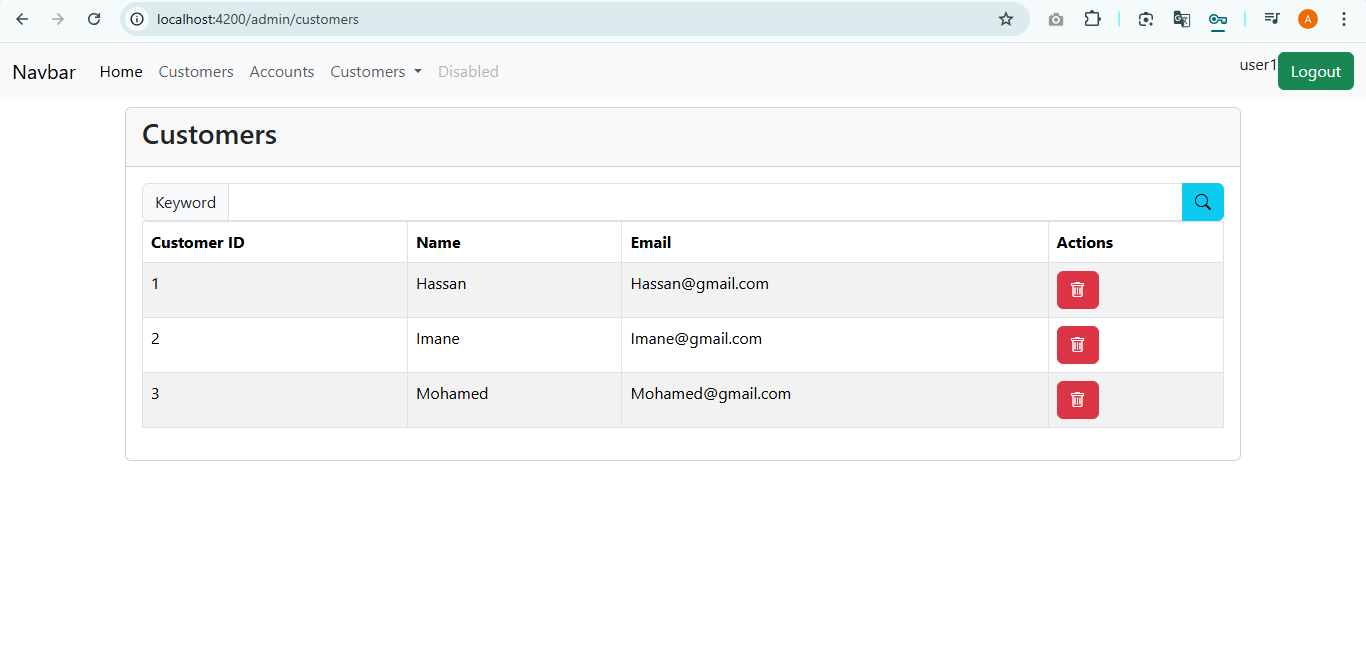
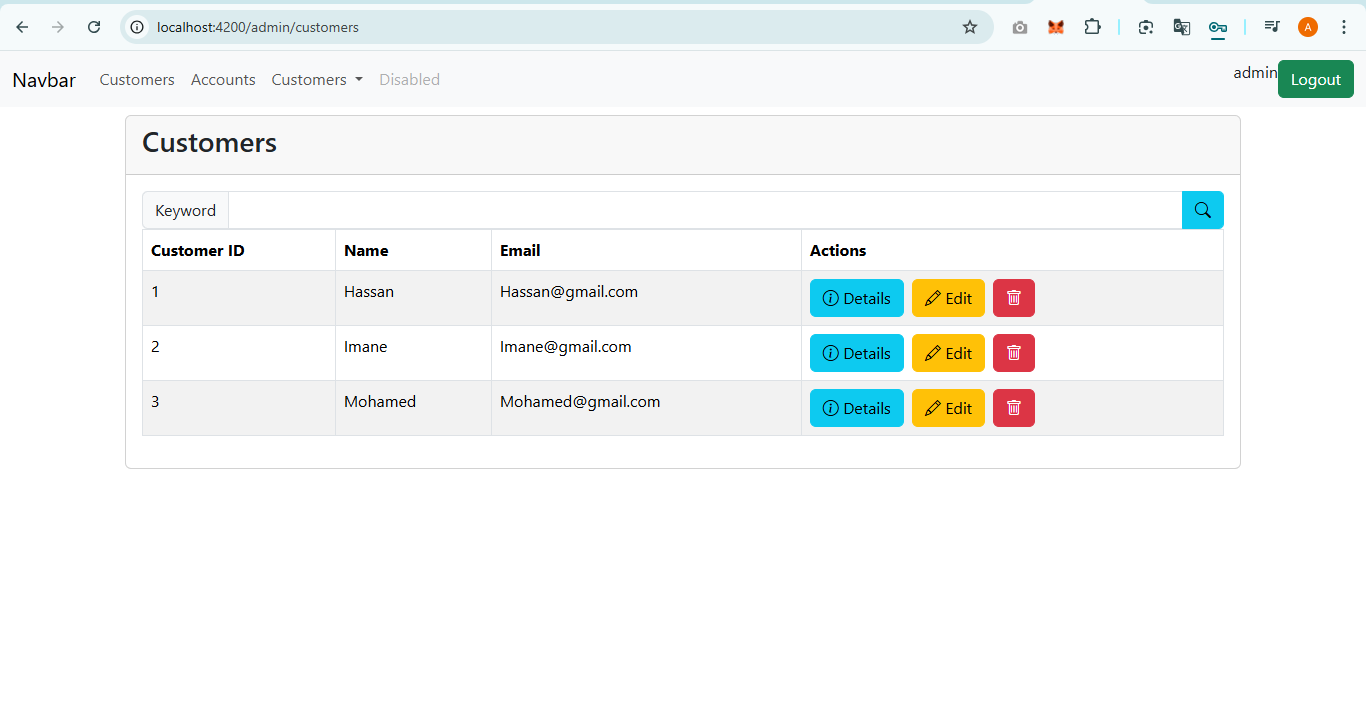
change readme File

diff --git a/src/app/new-customer/new-customer.component.html b/src/app/new-customer/new-customer.component.html
@@ -6,12 +6,12 @@
         <div class="card-body">
             <form [formGroup]="newCustomerFormGroup" (ngSubmit)="handleSaveCustomer()">
                 <div class="mb-3">
-                    <label class="form-label" for="name">Name :</label>
+                    <label class="form-label">Name :</label>
                     <input type="text" class="form-control" formControlName="name">
                     <span class="text-danger" *ngIf="newCustomerFormGroup.controls['name'].errors && newCustomerFormGroup.controls['name'].errors!['required']">Name is required</span>
                 </div>
                 <div class="mb-3">
-                    <label for="email">Email</label>
+                    <label>Email</label>
                     <input type="email" class="form-control" formControlName="email">
                     <span class="text-danger" *ngIf="newCustomerFormGroup.controls['email'].errors && newCustomerFormGroup.controls['email'].errors!['required']">Email is required</span>
                     <span class="text-danger" *ngIf="newCustomerFormGroup.controls['email'].errors && newCustomerFormGroup.controls['email'].errors!['email']">Email is invalid</span>

diff --git a/src/app/customer-accounts/customer-accounts.component.html b/src/app/customer-accounts/customer-accounts.component.html
@@ -17,7 +17,7 @@
             <div class="card shadow-sm h-100">
                 <div class="card-header bg-primary text-white d-flex justify-content-between align-items-center">
                     <h4 class="mb-0"><i class="bi bi-person-circle me-2"></i>Customer Details</h4>
-                    <button class="btn btn-sm btn-light" (click)="editCustomer()">
+                    <button *ngIf="authService.roles.includes('ADMIN')" class="btn btn-sm btn-light" (click)="editCustomer()">
                         <i class="bi bi-pencil-square me-1"></i> Edit
                     </button>
                 </div>
@@ -162,6 +162,11 @@
                             </div>
                         </ng-template>
                     </ng-template>
+                </div>
+                <div class="card-footer bg-light d-flex justify-content-center">
+                    <button *ngIf="authService.roles.includes('ADMIN')" class="btn btn-success" data-bs-toggle="modal" data-bs-target="#newAccountModal">
+                        <i class="bi bi-plus-circle me-1"></i> New Account
+                    </button>
                 </div>
             </div>
         </div>

diff --git a/src/app/customers/customers.component.ts b/src/app/customers/customers.component.ts
@@ -6,6 +6,7 @@ import { catchError, Observable, throwError, map } from 'rxjs';
 import { Customer } from '../model/customer.model';
 import { FormGroup, FormBuilder, ReactiveFormsModule } from '@angular/forms';
 import { Router } from '@angular/router';
+import { AuthService } from '../services/auth.service';
 
 @Component({
   selector: 'app-customers',
@@ -18,7 +19,7 @@ export class CustomersComponent implements OnInit{
   customers! :   Observable<Array<Customer>>;
   errorMessage! : string;
   searchFormGroup! : FormGroup;
-  constructor(private customerService : CustomerService, private fb : FormBuilder, private router: Router) {
+  constructor(private customerService : CustomerService, private fb : FormBuilder, private router: Router, public authService: AuthService) {
   }
   ngOnInit(): void {
     this.searchFormGroup = this.fb.group({

diff --git a/src/app/customer-accounts/customer-accounts.component.ts b/src/app/customer-accounts/customer-accounts.component.ts
@@ -6,6 +6,7 @@ import { AccountsService } from '../services/accounts.service';
 import { CustomerService } from '../services/customer.service';
 import { CommonModule } from '@angular/common';
 import { FormBuilder, FormGroup, ReactiveFormsModule, Validators } from '@angular/forms';
+import { AuthService } from '../services/auth.service';
 
 @Component({
   selector: 'app-customer-accounts',
@@ -27,7 +28,8 @@ export class CustomerAccountsComponent implements OnInit{
     private router : Router,
     private accountsService : AccountsService,
     private customerService: CustomerService,
-    private fb: FormBuilder
+    private fb: FormBuilder,
+    public authService: AuthService
   ){
     this.customer = this.router.getCurrentNavigation()?.extras.state as Customer;
   }

diff --git a/src/app/customers/customers.component.html b/src/app/customers/customers.component.html
@@ -23,7 +23,7 @@
               <th>Customer ID</th>
               <th>Name</th>
               <th>Email</th>
-              <th>Actions</th>
+              <th *ngIf="authService.roles.includes('ADMIN')">Actions</th>
 
 
             </tr>
@@ -33,7 +33,7 @@
               <td>{{ customer.id }}</td>
               <td>{{ customer.name }}</td>
               <td>{{ customer.email }}</td>
-              <td>
+              <td *ngIf="authService.roles.includes('ADMIN')">
                 <button (click)="handleCustomerDetails(customer)" class="btn btn-info me-2">
                   <i class="bi bi-info-circle"></i> Details
                 </button>

diff --git a/README.md b/README.md
@@ -30,6 +30,11 @@ Cette page affiche la liste de tous les clients avec des options pour gérer cha
 
 ![Liste des Clients](screenshots/customers.png)
 
+### Modifier un Client && afficher les comptes d'un client
+Cette page permet de modifier les informations d'un client et d'afficher ses comptes bancaires associés.
+![Modifier un Client](screenshots/details.png)
+
+
 
 ### Home
 Cette page montre la premiere page apres avoir authentifié
